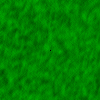
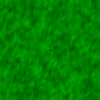
Adds hood_average_animation.rs to examples.

diff --git a/examples/hood_average_animation.rs b/examples/hood_average_animation.rs
@@ -2,12 +2,14 @@ use matrix_graph::{
     MatrixImageBuilder,
     Channel::*,
     Neighborhood,
+    MatrixImage,
 };
 use std::error::Error;
 use rand::Rng;
 
 fn main() -> Result<(), Box<dyn Error>> {
     let mut rng = rand::thread_rng();
+    let n_sequence = 10;
     let (size_x, size_y) = (100,100);
     let mut matrix = MatrixImageBuilder::init().with_height_and_width(size_x,size_y).build();
     
@@ -21,6 +23,23 @@ fn main() -> Result<(), Box<dyn Error>> {
         }
     }
     
+    for id in 0..n_sequence {
+        matrix = still_image(matrix)?;
+        
+        let prepend = "./animation/matrix_".to_owned();
+    
+        let _image = matrix
+            .draw(Green)?
+            .save(prepend+&id.to_string()+".png")?;
+
+    }
+    
+    Ok(())
+}
+
+fn still_image(mut matrix: MatrixImage) -> Result<MatrixImage, Box<dyn Error>> {
+    let size_x = matrix.get_height();
+    let size_y = matrix.get_width();
     for point_x in 0..size_x {
         for point_y in 0..size_y {
             let center = (point_x as u32,point_y as u32);
@@ -39,18 +58,5 @@ fn main() -> Result<(), Box<dyn Error>> {
             let _ = matrix.edit_point(center, average.try_into()?)?;
         }
     }
-    
-    let center = (50,50);
-    let _neighborhood = matrix.get_lattice_neighborhood(center, 3, Neighborhood::VonNeumann);
-    let _ = matrix.edit_point(center, 0);
-    
-    let _image = matrix
-        .draw(Green)?
-        .save("matrix.png")?;
-        
-
-    #[cfg(debug_assertions)]
-    println!("{:?}", neighborhood);
-    
-    Ok(())
+    Ok(matrix)
 }

diff --git a/src/lib.rs b/src/lib.rs
@@ -74,6 +74,12 @@ impl MatrixImage {
         let absolute_point: usize = self.to_absolute_point(point)?;
         Ok(self.data[absolute_point])
     }
+    pub fn get_height(&self) -> usize {
+        self.height
+    }
+    pub fn get_width(&self) -> usize {
+        self.width
+    }
     pub fn get_lattice_neighborhood(&self, point: (u32, u32), distance: usize, hood_type: Neighborhood) -> Vec<(u32, u32)> {
         let distance = distance as i64;
         let (point_x, point_y): (i64, i64) = (point.0 as i64, point.1 as i64);
